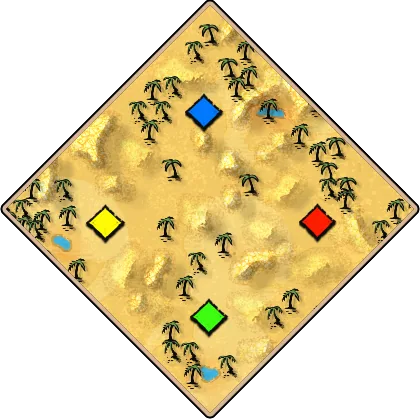
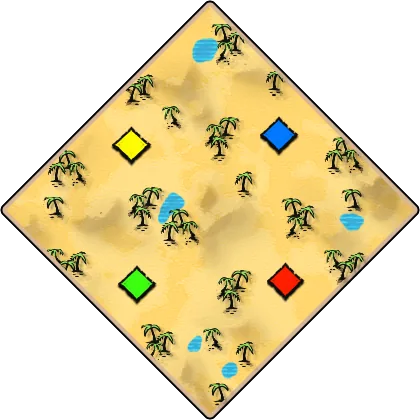
Add The Viking Sagas civilizations and Arabian Desert
Update 185872 (22. 9. 2026) brought Saxons, Varangians and Danes
(ids 60-62, era "base") and the Arabian Desert map (11026). Crests and
the map preview come from the game files via the existing tools; the
patch also redrew the Arabia and Steppe icons, so those previews are
refreshed too.

diff --git a/src/shared/civilizace.ts b/src/shared/civilizace.ts
@@ -1,7 +1,7 @@
 /**
  * Civilizace podle herního id (1 = Britons … v pořadí, v jakém je hra zavedla).
  * Názvy jsou z jazykového souboru hry (řetězec 10270 + id), vygenerováno
- * 7. 9. 2026. Null v sestavě znamená „libovolná“ — hráč si vybere sám.
+ * 7. 9. 2026, doplněno 23. 9. 2026 o The Viking Sagas (60–62). Null v sestavě znamená „libovolná“ — hráč si vybere sám.
  */
 export const CIVILIZACE: Record<number, string> = {
   1: "Britons",
@@ -63,6 +63,9 @@ export const CIVILIZACE: Record<number, string> = {
   57: "Muisca",
   58: "Mapuche",
   59: "Tupi",
+  60: "Saxons",
+  61: "Varangians",
+  62: "Danes",
 };
 
 export function nazevCivilizace(id: number | null): string {

diff --git a/src/shared/verze.ts b/src/shared/verze.ts
@@ -7,4 +7,4 @@
  * ze které pokus vyšel, za ní vlastní verzování pokusu. Pravidla jsou
  * v `scripts/verze.ts` a v `docs/nasazeni-jouki-cz.md` §2.1.
  */
-export const VERZE = "1.13.9";
+export const VERZE = "1.13.10";

diff --git a/src/shared/mapy.ts b/src/shared/mapy.ts
@@ -140,6 +140,7 @@ export const MAPY: Record<number, string> = {
   11023: "Stonefront",
   11024: "Thames",
   11025: "Vulpine",
+  11026: "Arabian Desert",
   13544: "Iberia",
   13545: "Britain",
   13546: "Mideast",

diff --git a/docs/prehled-praci-a-zameru.md b/docs/prehled-praci-a-zameru.md
@@ -1751,6 +1751,30 @@ věc na stránce: Microsoft scope je jen `XboxLive.signin` a přístupový token
 se nikde neukládá. Plný report s doklady TDD a kontrolami je
 v `.superpowers/sdd/2026-09-16-microsoft-prihlaseni/stranky-podminky.md`.
 
+### 3.59 DLC The Viking Sagas (1.13.10, 23. 9. 2026)
+
+Hra 22. 9. 2026 vydala DLC *The Viking Sagas* s update 185872. Převzato
+postupem z `CONTRIBUTING.md` → „Data ze hry“:
+
+- **Civilizace 60 Saxons, 61 Varangians, 62 Danes** (řetězce 10330–10332,
+  v `civilizations.json` všechny `era: "base"`, tedy sada Age of Empires II,
+  ne Chronicles). Erby `saxons`/`varangians`/`danes` ze
+  `nastroje/grafika/erby.py`, slugy se s názvy shodují, `civErby.ts` bez
+  výjimky.
+- **Mapa 11026 Arabian Desert** (nová soutěžní varianta Arábie) a její náhled
+  z `nastroje/grafika/mapy_nahledy.py`. Hra v patchi překreslila i ikony
+  Arabia a Steppe, náhledy se proto obnovily taky.
+
+Zkontrolováno a **nic dalšího na webu nevyžaduje**: v `maps.json` žádný nový
+herní režim ani příznak, sady civilizací dál jen All / AoE II / Chronicles,
+Longboat → Longship a Mounted Crossbowmen se webu netýkají. Patch změnil
+nastavení „Right Click Garrison“ ze zaškrtávátka na výběr Off / Alt Click
+Garrison / On — web ho nesleduje, zůstává mimo. Ranked Death Match má nově
+odemčené Team Positions a Turbo Mode; web hlídá vlastní nastavení večera,
+ne ranked pravidla, takže se to nepromítá. Neověřeno naživo: zda Worlds
+Edge seznam lobby vydává nové civ id 60–62 ve slotech stejně jako ostatní
+(očekává se, id je z téže řady).
+
 ## 4. Externí API — co je ověřené a co ne
 
 Worlds Edge (backend hry) není zdokumentovaný. Ověřené naživo 7. 9. 2026:
@@ -2050,6 +2074,7 @@ Jedna řádka = jeden commit do `dev`; tučně releasy do `main`.
 | 1.4.3 | 23:20 | Poplach svolání vždy naplno bez ohledu na Master Volume, (i) u popisku (§3.45) |
 | 1.4.4 | 23:40 | Bubliny u mikrofonu/ztlumení zalamují a jsou na střed, bublina (i) na střed nad ikonou |
 | 1.4.5 | 23:55 | Mikrofon a reproduktor jako zlaté SVG ikony 1,35 rem místo emoji (§3.50) |
+| 1.13.10 | 23. 9. | DLC The Viking Sagas: civilizace Saxons, Varangians, Danes s erby, mapa Arabian Desert s náhledem, obnovené náhledy Arabia a Steppe (§3.59) |
 | **1.13.9** | **17. 9. 03:43** | **Release do `main` (PR #20): Microsoft přihlášení živé i na ostré** — kontakt na smazání účtu i v podmínkách, z jedné konstanty pro obě právní stránky |
 | 1.13.8 | 17. 9. 03:43 | Fajfka ze záhlaví kontroly lobby pryč — po přesunu verdiktu říkala totéž o dva řádky výš |
 | 1.13.7 | 17. 9. 03:16 | Mrtvý prop `onVerdikt` pryč; verdikt pod tlačítko a blíž k výpisu, větší písmo |
